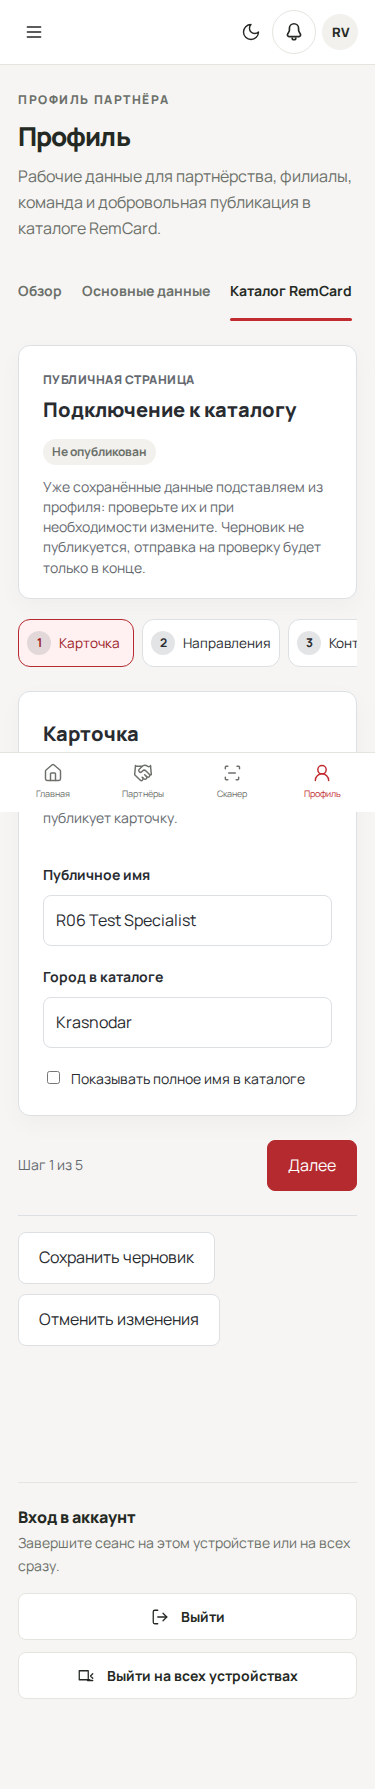
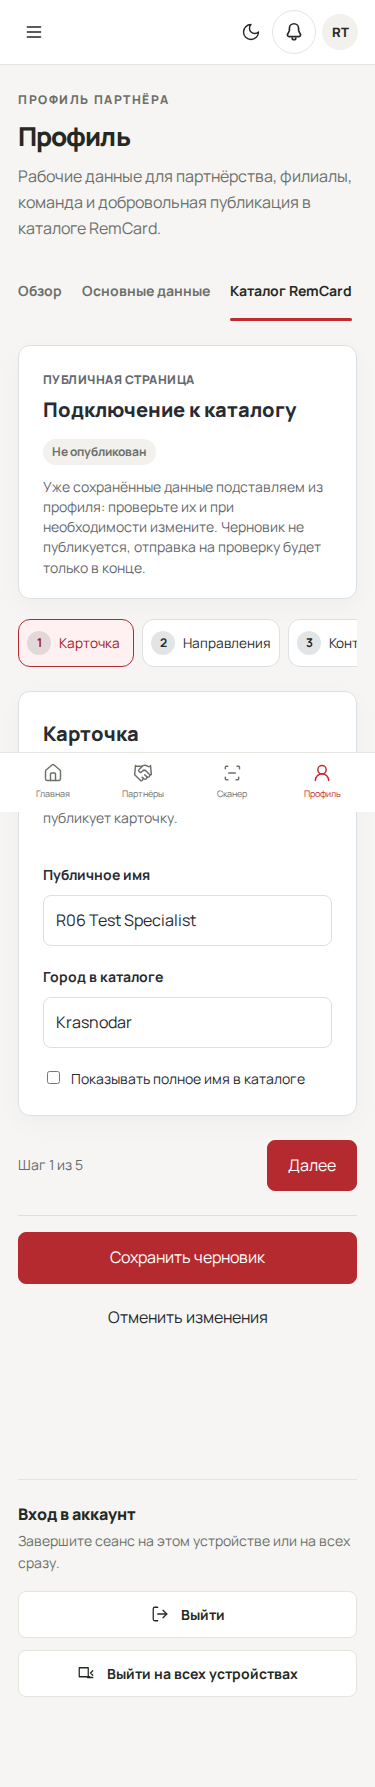
fix(r06-tail-01.2): catalog mobile step row and ghost cancel
Keep step label and primary Далее on one row at 375/320; style footer
Отменить изменения as ref ghost; add catalog-only visual capture runner
and TAIL-01.2 PG/BFF evidence artifacts.

diff --git a/src/components/profile/specialist/SpecialistCatalogWizard.module.css b/src/components/profile/specialist/SpecialistCatalogWizard.module.css
@@ -184,10 +184,22 @@
 }
 
 .btnGhost {
-  border-color: transparent;
+  border: 1px solid transparent;
   background: transparent;
   color: var(--cw-muted);
   font-weight: 600;
+  box-shadow: none;
+}
+
+.btnGhost:hover:not(:disabled) {
+  background: transparent;
+  border-color: transparent;
+  color: var(--cw-text);
+}
+
+.catalogFooter .btnGhost {
+  border: 1px solid transparent;
+  background: transparent;
 }
 
 @media (max-width: 900px) {
@@ -231,19 +243,25 @@
   }
 
   .stepActions {
-    flex-wrap: wrap;
+    flex-wrap: nowrap;
     justify-content: flex-end;
     gap: 0.65rem;
   }
 
   .stepActionsLabel {
-    flex: 1 1 100%;
-    margin-right: 0;
+    margin-right: auto;
+    flex: 0 1 auto;
+    min-width: 0;
+    white-space: nowrap;
   }
 
   .stepActions .btn {
     flex: 0 0 auto;
     min-width: 0;
+  }
+
+  .stepActions .btnPrimary {
+    flex: 0 0 auto;
   }
 }
 
